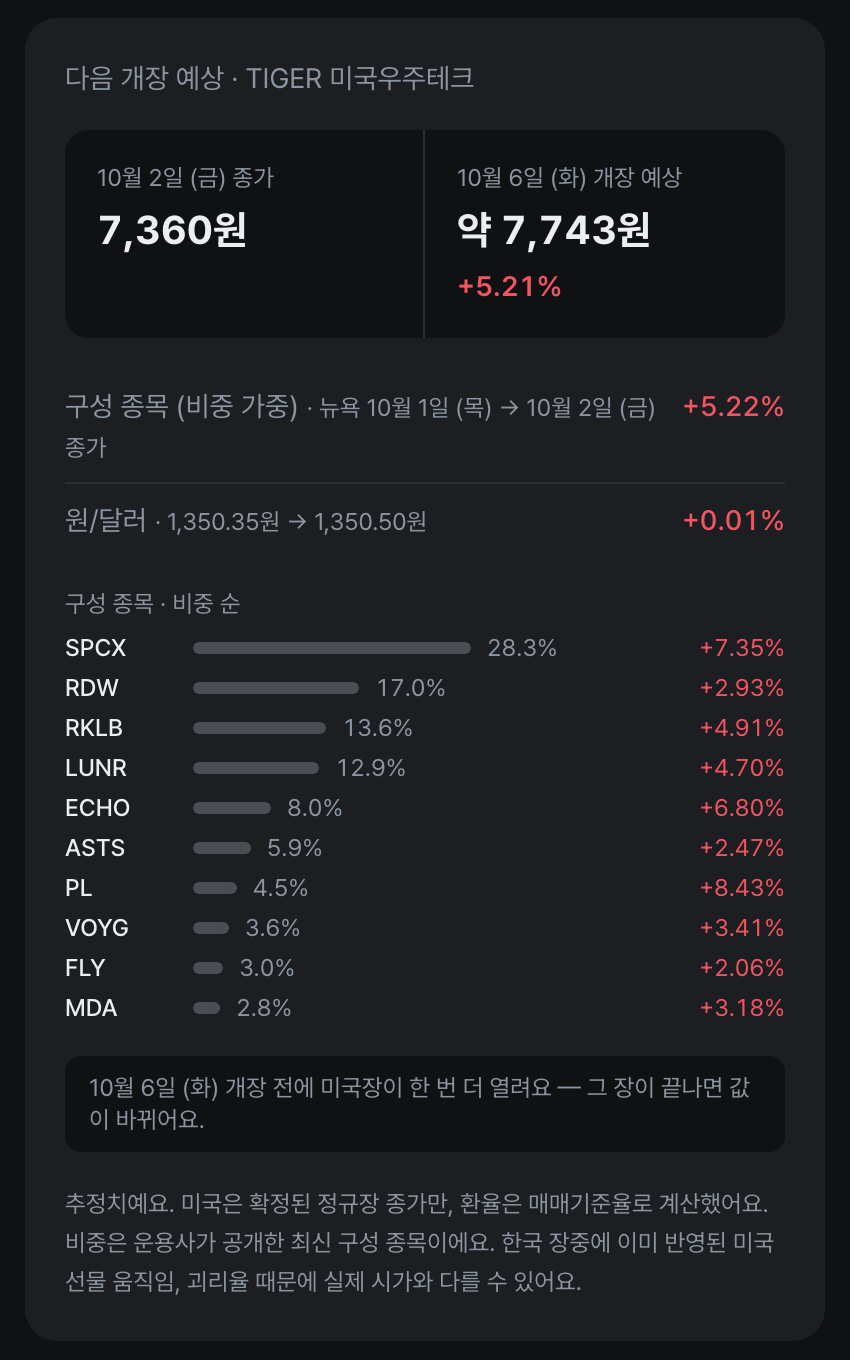
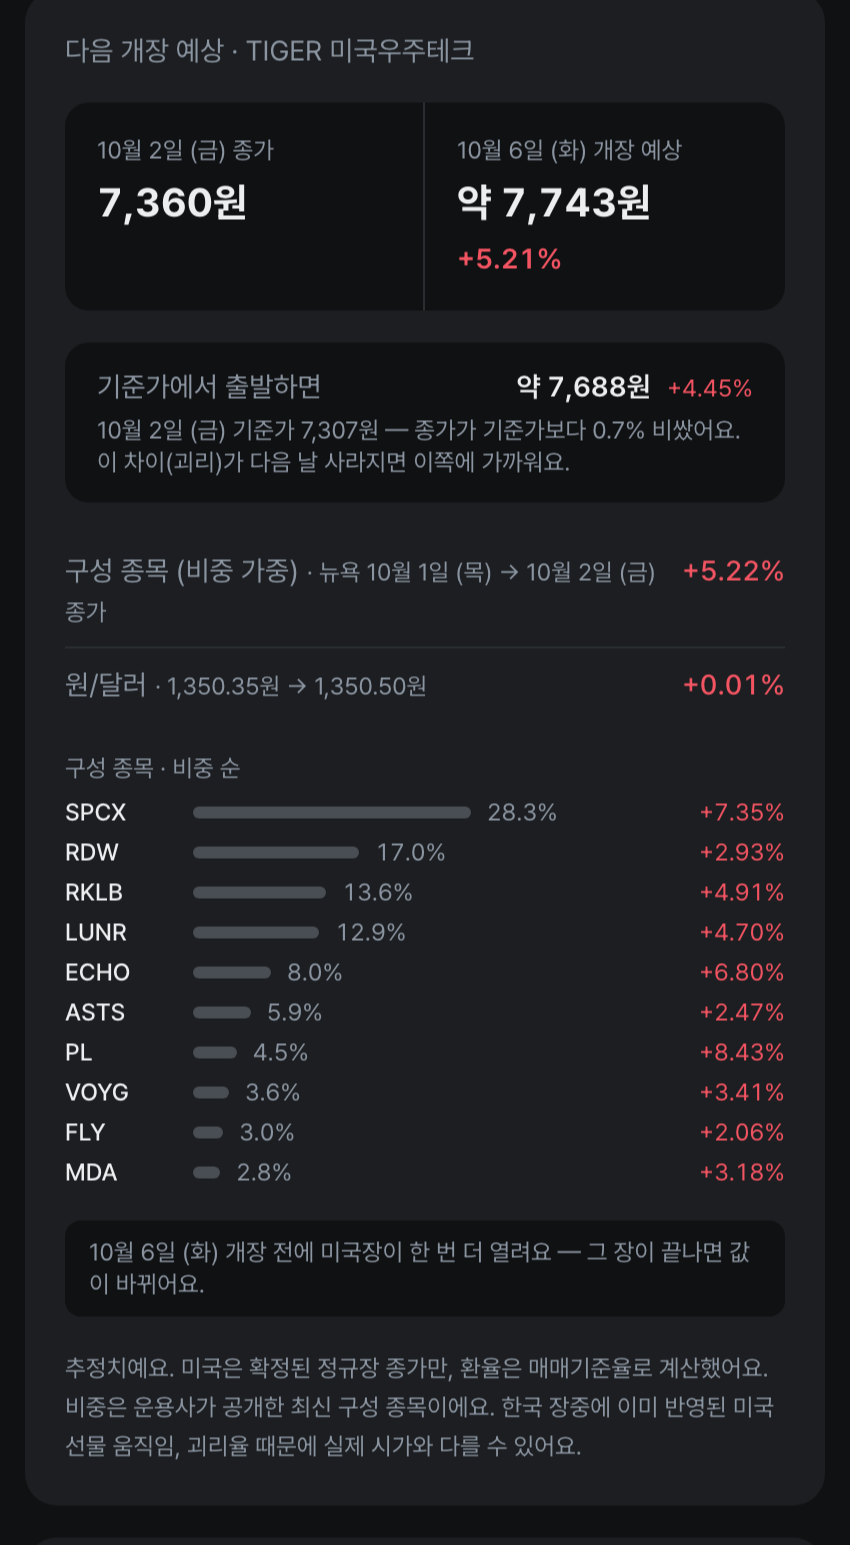
docs(knowledge): 기준가 출발 추정과 운용사 기준가 출처

diff --git a/docs/knowledge/toss-open-api.md b/docs/knowledge/toss-open-api.md
@@ -51,6 +51,8 @@
 | 출처 | 용도 | 주의 |
 |---|---|---|
 | 미래에셋 TIGER ETF 상품 페이지의 구성 종목(PDF) 표 | TIGER 미국우주테크 구성 종목 비중 | 공개 API 가 아니라 화면용 경로 — 바뀌면 추정이 실패로 표시됨. 하루 한 번만 받음 |
+| 미래에셋 TIGER ETF 상품 페이지의 기준가격(NAV) | TIGER 미국S&P500·미국우주테크 기준가 | 화면용 페이지. 당일 장 마감 뒤 그날 기준가가 올라옴. 10분마다만 받음 |
+| 한국투자신탁운용 ACE ETF 펀드 정보 (`papi.aceetf.co.kr/api/funds/{펀드코드}`) | ACE 미국나스닥100 기준가(`stpr`)·기준일(`stdDt`, 숫자) | 사이트가 쓰는 API — 공개 문서 없음. 기준가가 하루 늦게 올라옴 |
 
 ## 아직 정하지 않은 것
 
